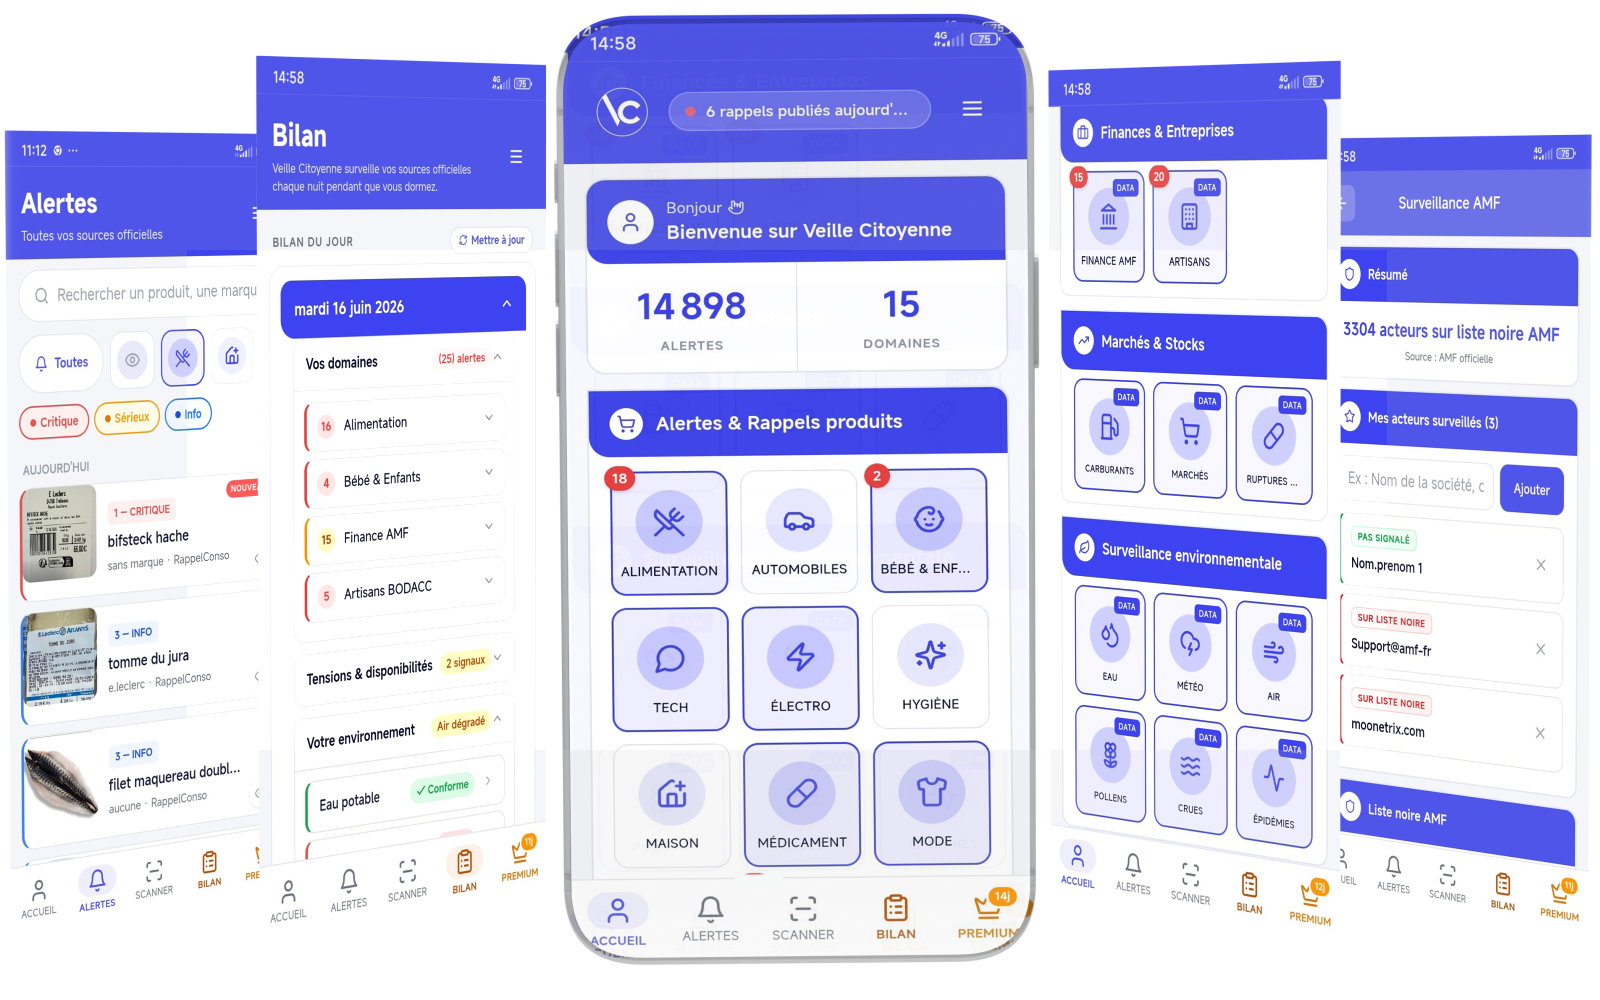
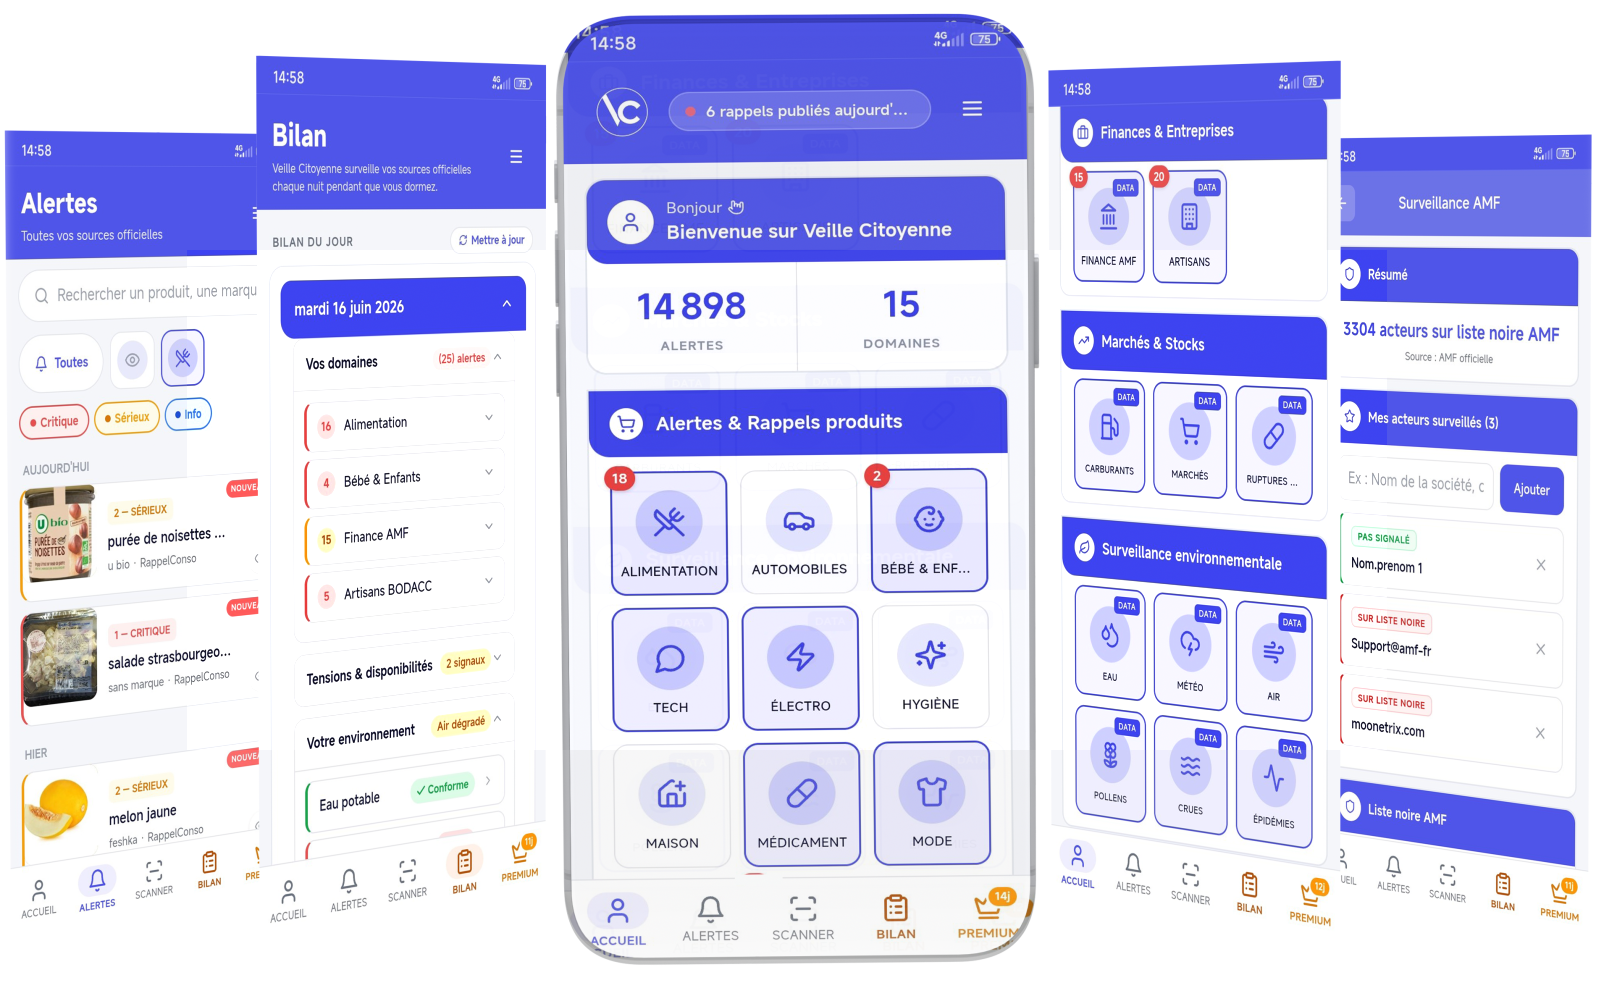
fix frame

diff --git a/index.html b/index.html
@@ -305,10 +305,6 @@
   .proof-banner{margin:24px 0 0;width:100%;max-width:100%}
   .proof-banner-img{width:100%;height:auto;display:block}
   @media(max-width:760px){.proof-banner{margin:18px 0 0}}
-  /* Image pleine largeur section 05 (PNG transparent) - dans le wrap, largeur 100% */
-  .sources-banner{margin:24px 0 0;width:100%;max-width:100%}
-  .sources-banner-img{width:100%;height:auto;display:block}
-  @media(max-width:760px){.sources-banner{margin:18px 0 0}}
   /* Forcer paddings serrés sur mobile pour sections avec style inline */
   @media(max-width:760px){
     section[style*="padding-top:60px"]{padding-top:30px!important}
@@ -682,10 +678,6 @@
         <span>RappelConso</span><span>ANSM</span><span>AMF</span><span>BODACC</span><span>Safety Gate EU</span><span>Vigicrues</span><span>M&eacute;t&eacute;o France</span><span>Hub'Eau</span><span>Atmo France</span><span>VigiEau</span><span>Odiss&eacute;</span><span>Prix Carburants</span><span>FAO</span><span>Agreste</span><span>RNM Rungis</span><span>ESA/ANSES</span><span>ANSM Disponibilit&eacute;s</span>
         <span>RappelConso</span><span>ANSM</span><span>AMF</span><span>BODACC</span><span>Safety Gate EU</span><span>Vigicrues</span><span>M&eacute;t&eacute;o France</span><span>Hub'Eau</span><span>Atmo France</span><span>VigiEau</span><span>Odiss&eacute;</span><span>Prix Carburants</span><span>FAO</span><span>Agreste</span><span>RNM Rungis</span><span>ESA/ANSES</span><span>ANSM Disponibilit&eacute;s</span>
       </div>
-    </div>
-    <!-- Image placeholder pleine largeur sous le bandeau déroulant -->
-    <div class="sources-banner rv" style="transition-delay:.1s">
-      <img src="sources-banner.png" alt="Veille Citoyenne sources officielles" class="sources-banner-img">
     </div>
   </div>
 </section>
